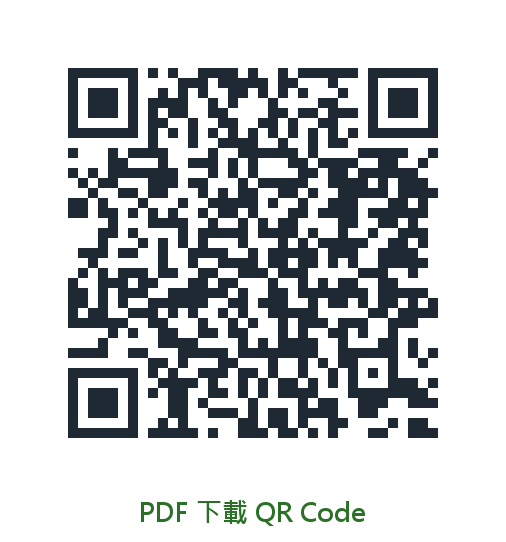
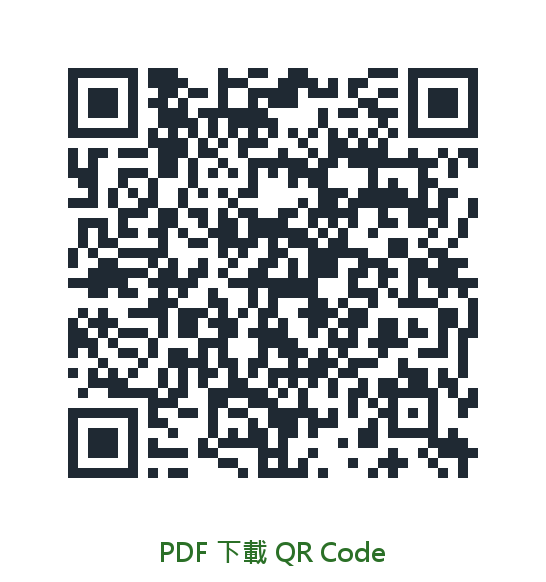
Refresh custom-domain PDF download assets

diff --git a/content/posts/know-04.md b/content/posts/know-04.md
@@ -25,12 +25,12 @@ draft = false
 
 <div style="background:#f7fbf6;border:2px solid #2f6f2b;padding:18px 20px;margin:24px 0;border-radius:8px;">
 <p style="font-size:1.15em;margin-top:0;"><strong>下載 PDF 檔案</strong><br>按下方按鈕可下載中英對照 PDF。若想閱讀未經翻譯重排的乾淨版本，也可下載 HealthTree 英文原文 PDF。</p>
-<p><a href="/files/2026/07/know-04/know-04-bilingual-ai-reference.pdf" download style="display:inline-block;background:#2f6f2b;color:#fff;padding:14px 22px;border-radius:8px;text-decoration:none;font-weight:800;font-size:1.1em;">按此下載中英對照 PDF</a></p>
+<p><a href="/files/2026/07/know-04/know-04-bilingual-ai-reference.pdf?v=20260731" download style="display:inline-block;background:#2f6f2b;color:#fff;padding:14px 22px;border-radius:8px;text-decoration:none;font-weight:800;font-size:1.1em;">按此下載中英對照 PDF</a></p>
 <p><a href="/files/2026/07/know-04/know-04-original-healthtree-understanding-your-labs.pdf" download>下載英文原文 PDF：Simplified Version of Understanding Your Labs</a></p>
 <details style="margin-top:12px;">
 <summary style="cursor:pointer;font-weight:700;color:#155e63;">按此顯示下載連結 QR Code</summary>
-<p style="margin-top:12px;"><img src="/images/2026/07/know-04/know-04-download-qr.png" alt="認識檢驗數據簡明版 PDF 下載 QR Code" style="max-width:260px;width:100%;height:auto;border:1px solid #d0ddd0;border-radius:6px;padding:8px;background:#fff;"></p>
-<p style="font-size:0.9em;color:#555;">QR Code 連結：<br><a href="/files/2026/07/know-04/know-04-bilingual-ai-reference.pdf">https://healthtreetw.org/files/2026/07/know-04/know-04-bilingual-ai-reference.pdf</a></p>
+<p style="margin-top:12px;"><img src="/images/2026/07/know-04/know-04-download-qr.png?v=20260731" alt="認識檢驗數據簡明版 PDF 下載 QR Code" style="max-width:260px;width:100%;height:auto;border:1px solid #d0ddd0;border-radius:6px;padding:8px;background:#fff;"></p>
+<p style="font-size:0.9em;color:#555;">QR Code 連結：<br><a href="/files/2026/07/know-04/know-04-bilingual-ai-reference.pdf?v=20260731">https://healthtreetw.org/files/2026/07/know-04/know-04-bilingual-ai-reference.pdf</a></p>
 </details>
 </div>
 

diff --git a/content/posts/know-05.md b/content/posts/know-05.md
@@ -25,12 +25,12 @@ draft = false
 
 <div style="background:#f7fbf6;border:2px solid #2f6f2b;padding:18px 20px;margin:24px 0;border-radius:8px;">
 <p style="font-size:1.15em;margin-top:0;"><strong>下載 PDF 檔案</strong><br>按下方按鈕可下載中英對照 PDF。若想閱讀未經翻譯重排的乾淨版本，也可下載 HealthTree 英文原文 PDF。</p>
-<p><a href="/files/2026/07/know-05/know-05-bilingual-ai-reference.pdf" download style="display:inline-block;background:#2f6f2b;color:#fff;padding:14px 22px;border-radius:8px;text-decoration:none;font-weight:800;font-size:1.1em;">按此下載中英對照 PDF</a></p>
+<p><a href="/files/2026/07/know-05/know-05-bilingual-ai-reference.pdf?v=20260731" download style="display:inline-block;background:#2f6f2b;color:#fff;padding:14px 22px;border-radius:8px;text-decoration:none;font-weight:800;font-size:1.1em;">按此下載中英對照 PDF</a></p>
 <p><a href="/files/2026/07/know-05/know-05-original-healthtree-deciphering-myeloma-labs.pdf" download>下載英文原文 PDF：Deciphering Myeloma Labs</a></p>
 <details style="margin-top:12px;">
 <summary style="cursor:pointer;font-weight:700;color:#155e63;">按此顯示下載連結 QR Code</summary>
-<p style="margin-top:12px;"><img src="/images/2026/07/know-05/know-05-download-qr.png" alt="解讀我的骨髓瘤檢驗報告 PDF 下載 QR Code" style="max-width:260px;width:100%;height:auto;border:1px solid #d0ddd0;border-radius:6px;padding:8px;background:#fff;"></p>
-<p style="font-size:0.9em;color:#555;">QR Code 連結：<br><a href="/files/2026/07/know-05/know-05-bilingual-ai-reference.pdf">https://healthtreetw.org/files/2026/07/know-05/know-05-bilingual-ai-reference.pdf</a></p>
+<p style="margin-top:12px;"><img src="/images/2026/07/know-05/know-05-download-qr.png?v=20260731" alt="解讀我的骨髓瘤檢驗報告 PDF 下載 QR Code" style="max-width:260px;width:100%;height:auto;border:1px solid #d0ddd0;border-radius:6px;padding:8px;background:#fff;"></p>
+<p style="font-size:0.9em;color:#555;">QR Code 連結：<br><a href="/files/2026/07/know-05/know-05-bilingual-ai-reference.pdf?v=20260731">https://healthtreetw.org/files/2026/07/know-05/know-05-bilingual-ai-reference.pdf</a></p>
 </details>
 </div>
 
